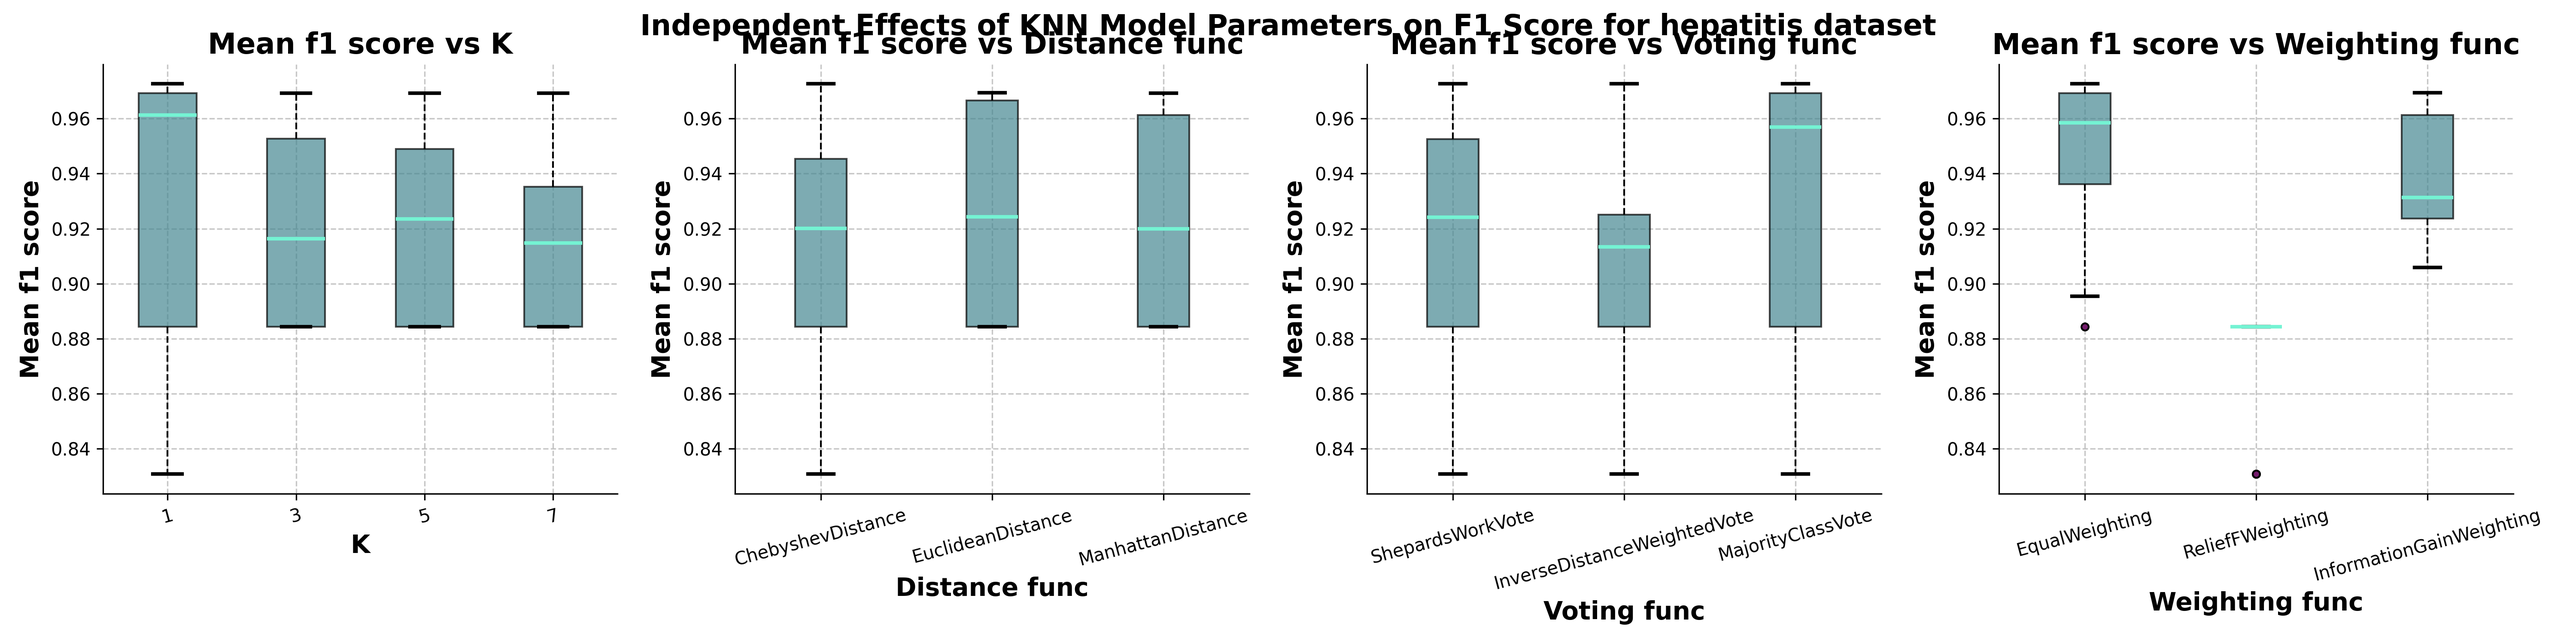
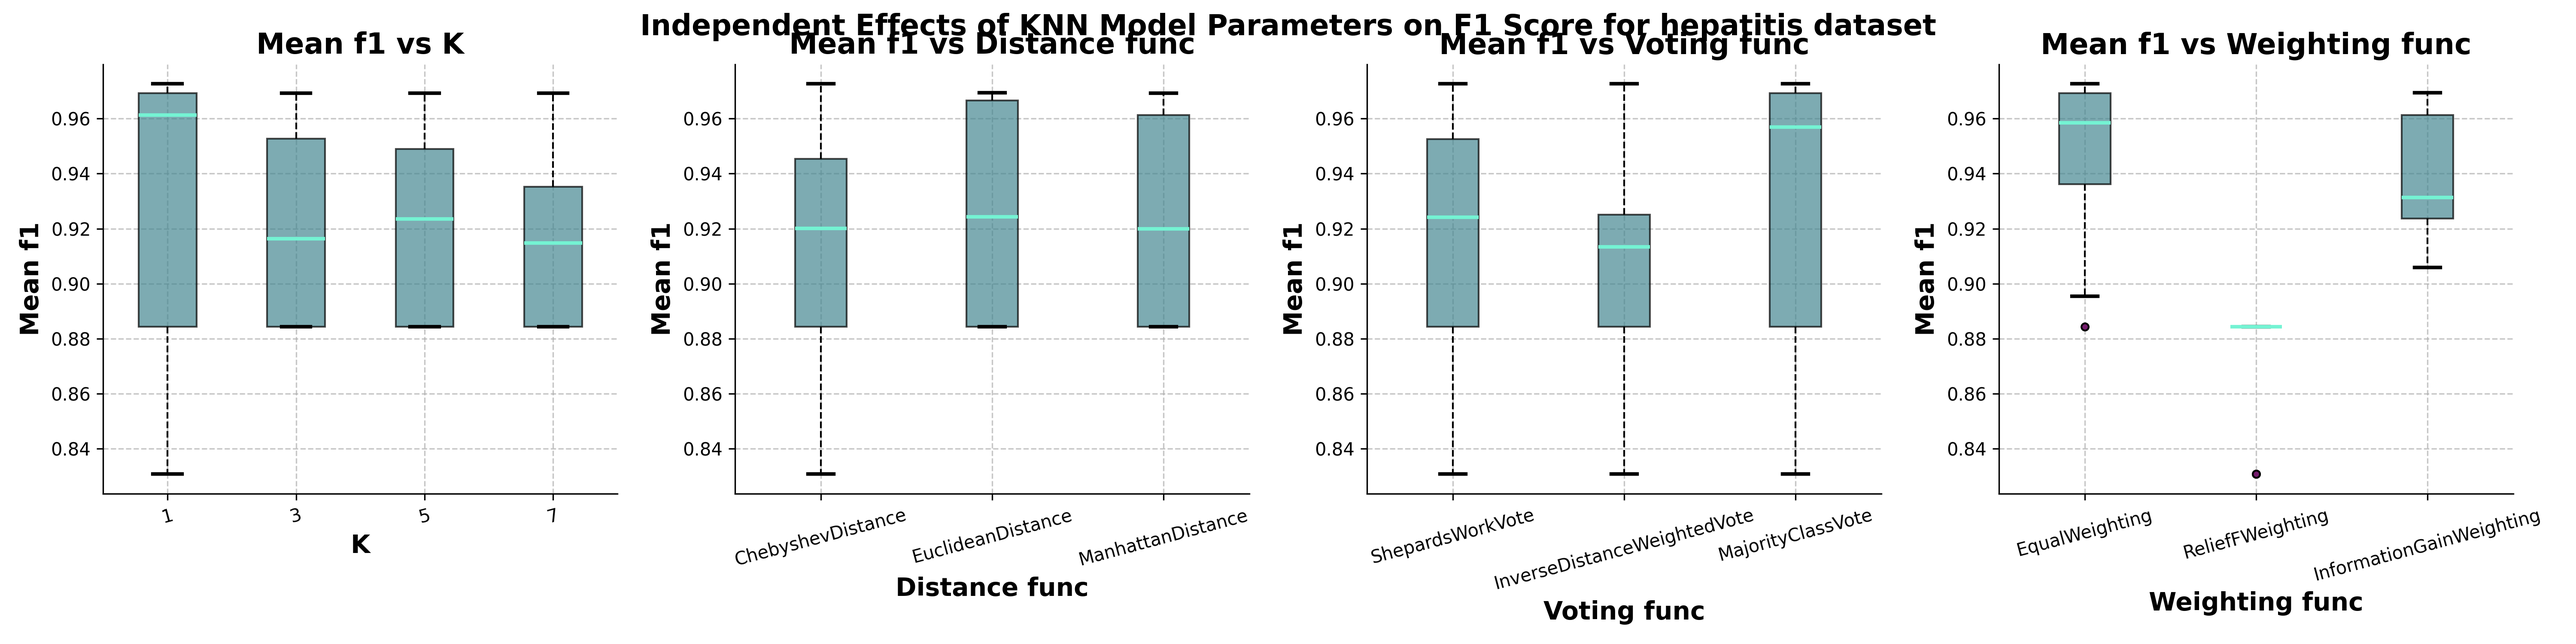
add cross-model comparison

diff --git a/work2/tools/analysis/statistical_analysis_tools.py b/work2/tools/analysis/statistical_analysis_tools.py
@@ -83,9 +83,9 @@ def linear_sample(df_with_folds, num_samples=8):
     return df_with_folds.loc[samples_indices, :]
 
 
-def top_samples(df_with_folds, num_samples=8):
+def top_samples(df_with_folds, num_samples=8, by='mean_f1'):
     num_samples = min(num_samples, len(df_with_folds))
-    return df_with_folds.sort_values(by="mean_f1_score", ascending=False).head(num_samples)
+    return df_with_folds.sort_values(by=by, ascending=False).head(num_samples)
 
 
 def get_p_values_df(
@@ -171,7 +171,7 @@ def plot_p_values_vs_num_samples(
     axes[len(axes) // 2].set_xlabel("Number of Samples")
 
 
-def plot_independent_effects(df, x_cols, y_cols=["mean_f1_score"]):
+def plot_independent_effects(df, x_cols, y_cols=["mean_f1"]):
     cols = len(x_cols) * len(y_cols)
     fig, axes = plt.subplots(1, cols, figsize=(5*cols, 5))
 
@@ -222,11 +222,11 @@ def plot_interactions(df, col_names):
 
         if col_name1 == col_name2:
             # Diagonal plots: show distribution for single variable
-            custom_boxplot(ax, df.groupby(col_name1)["mean_f1_score"].apply(list))
+            custom_boxplot(ax, df.groupby(col_name1)["mean_f1"].apply(list))
         else:
             # Off-diagonal plots: show interaction between variables
             pivot_table = df.pivot_table(
-                values="mean_f1_score", index=col_name1, columns=col_name2, aggfunc="mean"
+                values="mean_f1", index=col_name1, columns=col_name2, aggfunc="mean"
             )
             sns.heatmap(
                 pivot_table,
@@ -308,7 +308,7 @@ def get_top_values(df, col_names, num_to_select=2, models_to_consider=10):
     top_values = {}
 
     for col_name in col_names:
-        best_scoring_models = df.sort_values(by="mean_f1_score", ascending=False).head(
+        best_scoring_models = df.sort_values(by="mean_f1", ascending=False).head(
             models_to_consider
         )
         top_values[col_name] = (
@@ -324,30 +324,60 @@ def get_models_with_top_values(df, top_values):
         & df["distance_func"].isin(top_values["distance_func"])
         & df["voting_func"].isin(top_values["voting_func"])
         & df["weighting_func"].isin(top_values["weighting_func"])
-    ].sort_values(by="mean_f1_score", ascending=False)
+    ].sort_values(by="mean_f1", ascending=False)
     result.reset_index(drop=True, inplace=True)
     return result
 
+def expand_data_per_fold(df, x_col='model', metrics=['f1', 'train_time', 'test_time']):
+    """Reshape data to have one row per fold"""
+    expanded_data = []
+    
+    for _, row in df.iterrows():
+        model = row[x_col]
+        for i in range(10):
+            fold_data = {x_col: model, 'fold': i}
+            for metric in metrics:
+                fold_data[metric] = row[f'{metric}_{i}']
+            expanded_data.append(fold_data)
+            
+    return pd.DataFrame(expanded_data)
+
+def plot_metrics_comparison(axs, df_by_fold, x_col='model'):
+    """Create comparison plots for each metric"""
+    titles = ['F1 Score', 'Train Time', 'Test Time']
+    metrics = ['f1', 'train_time', 'test_time']
+
+    for i, (title, metric) in enumerate(zip(titles, metrics)):
+        data = [df_by_fold[df_by_fold[x_col] == x_col_op][metric].values 
+                for x_col_op in df_by_fold[x_col].unique()]
+        custom_boxplot(axs[i], data)
+        axs[i].set_xticklabels(df_by_fold[x_col].unique())
+        axs[i].set_title(title)
+        axs[i].set_xlabel('Model', fontsize=12, fontweight='bold')
+        if i == 0:
+            axs[i].set_ylabel('F1 Score', fontsize=12, fontweight='bold')
+        else:
+            axs[i].set_ylabel('Time (seconds)', fontsize=12, fontweight='bold')
 
 def analyze_parameters(df, nemenyi_results, x_cols, alpha=0.05):
     # 1. Main Effects Analysis
     print("=== Main Effects ===")
     for param in x_cols:
-        means = df.groupby(param)["mean_f1_score"].mean()
+        means = df.groupby(param)["mean_f1"].mean()
         print(f"\n{param} effects:")
         print(means)
 
     # 2. Interaction Analysis
     print("\n=== Parameter Interactions ===")
     interactions = (
-        df.groupby(x_cols)["mean_f1_score"].mean().unstack()
+        df.groupby(x_cols)["mean_f1"].mean().unstack()
     )
     print(interactions)
 
     # 3. Find Best Combinations
-    best_combos = df.nlargest(3, "mean_f1_score")
+    best_combos = df.nlargest(3, "mean_f1")
     print("\n=== Top 3 Parameter Combinations ===")
-    print(best_combos[x_cols + ["mean_f1_score"]])
+    print(best_combos[x_cols + ["mean_f1"]])
 
     # 4. Statistical Significance Summary
     print("\n=== Significant Differences ===")

diff --git a/work2/tools/analysis/run_statistical_analysis.py b/work2/tools/analysis/run_statistical_analysis.py
@@ -52,9 +52,9 @@ knn_col_names = ["k", "distance_func", "voting_func", "weighting_func"]
 svm_col_names = ["C", "kernel_type"]
 
 for df in [knn_results, knn_reduction_results, svm_results]:
-    df["mean_f1_score"] = df.loc[:, f1_cols].mean(axis=1)
-    df["std_f1_score"] = df.loc[:, f1_cols].std(axis=1)
-    df.sort_values(by="mean_f1_score", ascending=False, inplace=True)
+    for metric_col in ['f1', 'train_time', 'test_time']:
+        df[f"mean_{metric_col}"] = df.loc[:, [f"{metric_col}_{i}" for i in range(10)]].mean(axis=1)
+    df.sort_values(by=f"mean_f1", ascending=False, inplace=True)
 
 knn_results["model_label"] = knn_results.apply(get_knn_model_label, axis=1)
 knn_reduction_results["model_label"] = knn_reduction_results.apply(
@@ -215,7 +215,7 @@ plt.show()
 logging.info("Analyzing Nemenyi test results for KNN models")
 analyze_parameters(knn_results_for_nemenyi, knn_nemenyi_results, knn_col_names)
 significant_pairs = get_significant_pairs(knn_nemenyi_results)
-significant_pairs_df = get_df_pairs(knn_results_for_nemenyi, significant_pairs).loc[:, knn_col_names + ["mean_f1_score"]]
+significant_pairs_df = get_df_pairs(knn_results_for_nemenyi, significant_pairs).loc[:, knn_col_names + ["mean_f1"]]
 significant_pairs_df = format_column_names(significant_pairs_df)
 write_latex_table(significant_pairs_df, f"{TABLES_DIR}/knn_significant_pairs_{dataset_name}.tex", "Significant Differences in KNN Models")
 
@@ -263,7 +263,6 @@ write_latex_table(significant_pairs_df, f"{TABLES_DIR}/svm_significant_pairs_{da
 
 best_svm_model = svm_results.iloc[0, :]
 best_knn_model = knn_results.iloc[0, :]
-# best_svm_model_f1_scores = best_svm_model[f1_cols]
 knn_svm_f1_p_value = stats.wilcoxon(best_svm_model[f1_cols].to_list(), best_knn_model[f1_cols].to_list()).pvalue
 knn_svm_train_time_p_value = stats.wilcoxon(best_svm_model[train_time_cols].to_list(), best_knn_model[train_time_cols].to_list()).pvalue
 knn_svm_test_time_p_value = stats.wilcoxon(best_svm_model[test_time_cols].to_list(), best_knn_model[test_time_cols].to_list()).pvalue
@@ -282,41 +281,24 @@ best_knn_and_svm = pd.DataFrame(
 )
 best_knn_and_svm
 # %%
-# Reshape data for plotting
-expanded_data = []
-for _, row in best_knn_and_svm.iterrows():
-    model = row['model']
-    for i in range(10):
-        expanded_data.append({
-            'model': model,
-            'fold': i,
-            'f1': row[f'f1_{i}'],
-            'train_time': row[f'train_time_{i}'],
-            'test_time': row[f'test_time_{i}']
-        })
-        
-best_knn_and_svm_by_fold = pd.DataFrame(expanded_data)
+# Expand and plot the data
+best_knn_and_svm_by_fold = expand_data_per_fold(best_knn_and_svm)
 
-# Create subplots
-fig, axs = plt.subplots(1, 3, figsize=(15, 5))
-titles = ['F1 Score', 'Train Time', 'Test Time']
-metrics = ['f1', 'train_time', 'test_time']
-
-# Plot each metric
-for i, (title, metric) in enumerate(zip(titles, metrics)):
-    data = [best_knn_and_svm_by_fold[best_knn_and_svm_by_fold['model'] == model][metric].values 
-            for model in ['KNN', 'SVM']]
-    custom_boxplot(axs[i], data)
-    axs[i].set_xticklabels(['KNN', 'SVM'])
-    axs[i].set_title(title)
-    axs[i].set_xlabel('Model')
-    if i == 0:
-        axs[i].set_ylabel('F1 Score')
-    else:
-        axs[i].set_ylabel('Time (seconds)')
-
-plt.suptitle(f'Model Comparison for {dataset_name} dataset', y=1.05)
+fig, axs = plt.subplots(1, 3, figsize=(15, 5))  
+plot_metrics_comparison(axs, best_knn_and_svm_by_fold)
+plt.suptitle(f'Model Comparison for {dataset_name} dataset', fontsize=20, fontweight='bold')
 plt.tight_layout()
 fig.savefig(f"{FIGURES_DIR}/model_comparison_{dataset_name}.png", dpi=300)
 plt.show()
+# %%
+# Calculate means for each metric across folds
+best_knn_and_svm['mean_f1'] = best_knn_and_svm[f1_cols].mean(axis=1)
+best_knn_and_svm['mean_train_time'] = best_knn_and_svm[train_time_cols].mean(axis=1)
+best_knn_and_svm['mean_test_time'] = best_knn_and_svm[test_time_cols].mean(axis=1)
+
+# Now group by model and get means
+best_knn_and_svm_summary = best_knn_and_svm.loc[:, ['model', 'mean_f1', 'mean_train_time', 'mean_test_time']]
+best_knn_and_svm_summary.rename(columns=lambda x: x.replace("_", " ").title() + (" (s)" if "time" in x else ""), inplace=True)
+best_knn_and_svm_summary
+write_latex_table(best_knn_and_svm_summary, f"{TABLES_DIR}/best_knn_and_svm_summary_{dataset_name}.tex", "Best KNN and SVM Models", precision=6)
 # %%

diff --git a/work2/reports/tables/svm_significant_pairs_hepatitis.tex b/work2/reports/tables/svm_significant_pairs_hepatitis.tex
@@ -2,13 +2,13 @@
 \centering
 \caption{Significant Differences in SVM Models}
 \label{tab:svm_significant_pairs_hepatitis}
-\begin{tabular}{rlrrrrrrrrrrrrrrrrrrrrrrrrrrrrrrrrl}
+\begin{tabular}{rlrrrrrrrrrrrrrrrrrrrrrrrrrrrrrrrrrl}
 \toprule
-C & Kernel Type & F1 0 & F1 1 & F1 2 & F1 3 & F1 4 & F1 5 & F1 6 & F1 7 & F1 8 & F1 9 & Train Time 0 & Train Time 1 & Train Time 2 & Train Time 3 & Train Time 4 & Train Time 5 & Train Time 6 & Train Time 7 & Train Time 8 & Train Time 9 & Test Time 0 & Test Time 1 & Test Time 2 & Test Time 3 & Test Time 4 & Test Time 5 & Test Time 6 & Test Time 7 & Test Time 8 & Test Time 9 & Mean F1 Score & Std F1 Score & Model Label \\
+C & Kernel Type & F1 0 & F1 1 & F1 2 & F1 3 & F1 4 & F1 5 & F1 6 & F1 7 & F1 8 & F1 9 & Train Time 0 & Train Time 1 & Train Time 2 & Train Time 3 & Train Time 4 & Train Time 5 & Train Time 6 & Train Time 7 & Train Time 8 & Train Time 9 & Test Time 0 & Test Time 1 & Test Time 2 & Test Time 3 & Test Time 4 & Test Time 5 & Test Time 6 & Test Time 7 & Test Time 8 & Test Time 9 & Mean F1 & Mean Train Time & Mean Test Time & Model Label \\
 \midrule
-3 & rbf & 0.857 & 0.966 & 1.000 & 1.000 & 1.000 & 1.000 & 0.909 & 1.000 & 0.957 & 1.000 & 0.001 & 0.001 & 0.001 & 0.001 & 0.001 & 0.001 & 0.001 & 0.001 & 0.001 & 0.001 & 0.000 & 0.000 & 0.000 & 0.000 & 0.000 & 0.000 & 0.000 & 0.000 & 0.000 & 0.000 & 0.969 & 0.049 & C3Rbf \\
-5 & rbf & 0.828 & 0.966 & 1.000 & 1.000 & 0.960 & 1.000 & 0.957 & 1.000 & 1.000 & 1.000 & 0.001 & 0.001 & 0.001 & 0.001 & 0.001 & 0.001 & 0.001 & 0.001 & 0.001 & 0.001 & 0.000 & 0.000 & 0.000 & 0.000 & 0.000 & 0.000 & 0.000 & 0.000 & 0.000 & 0.000 & 0.971 & 0.054 & C5Rbf \\
-7 & sigmoid & 0.857 & 0.667 & 0.815 & 0.909 & 0.846 & 0.846 & 0.846 & 0.750 & 0.909 & 0.846 & 0.001 & 0.001 & 0.001 & 0.001 & 0.001 & 0.001 & 0.001 & 0.001 & 0.001 & 0.001 & 0.000 & 0.000 & 0.000 & 0.001 & 0.000 & 0.000 & 0.000 & 0.000 & 0.000 & 0.000 & 0.829 & 0.073 & C7Sig \\
+3 & rbf & 0.857 & 0.966 & 1.000 & 1.000 & 1.000 & 1.000 & 0.909 & 1.000 & 0.957 & 1.000 & 0.001 & 0.001 & 0.001 & 0.001 & 0.001 & 0.001 & 0.001 & 0.001 & 0.001 & 0.001 & 0.000 & 0.000 & 0.000 & 0.000 & 0.000 & 0.000 & 0.000 & 0.000 & 0.000 & 0.000 & 0.969 & 0.001 & 0.000 & C3Rbf \\
+5 & rbf & 0.828 & 0.966 & 1.000 & 1.000 & 0.960 & 1.000 & 0.957 & 1.000 & 1.000 & 1.000 & 0.001 & 0.001 & 0.001 & 0.001 & 0.001 & 0.001 & 0.001 & 0.001 & 0.001 & 0.001 & 0.000 & 0.000 & 0.000 & 0.000 & 0.000 & 0.000 & 0.000 & 0.000 & 0.000 & 0.000 & 0.971 & 0.001 & 0.000 & C5Rbf \\
+7 & sigmoid & 0.857 & 0.667 & 0.815 & 0.909 & 0.846 & 0.846 & 0.846 & 0.750 & 0.909 & 0.846 & 0.001 & 0.001 & 0.001 & 0.001 & 0.001 & 0.001 & 0.001 & 0.001 & 0.001 & 0.001 & 0.000 & 0.000 & 0.000 & 0.001 & 0.000 & 0.000 & 0.000 & 0.000 & 0.000 & 0.000 & 0.829 & 0.001 & 0.000 & C7Sig \\
 \bottomrule
 \end{tabular}
 \end{table}

diff --git a/work2/tools/analysis/table_tool.py b/work2/tools/analysis/table_tool.py
@@ -4,13 +4,13 @@ def format_column_names(df):
     df.rename(columns=lambda x: x.replace('_', ' ').title(), inplace=True)
     return df
 
-def write_latex_table(df, filename, caption):
+def write_latex_table(df, filename, caption, precision=3):
     label = os.path.splitext(os.path.basename(filename))[0]
     s = df.style
     s.table_styles = []
     s.caption = caption
     s.format(
-        precision=3,
+        precision=precision,
     )
     s.hide(level=0, axis=0)
     latex_table = s.to_latex(position_float="centering",

diff --git a/work2/reports/tables/knn_significant_pairs_hepatitis.tex b/work2/reports/tables/knn_significant_pairs_hepatitis.tex
@@ -4,7 +4,7 @@
 \label{tab:knn_significant_pairs_hepatitis}
 \begin{tabular}{rlllr}
 \toprule
-K & Distance Func & Voting Func & Weighting Func & Mean F1 Score \\
+K & Distance Func & Voting Func & Weighting Func & Mean F1 \\
 \midrule
 1 & ManhattanDistance & MajorityClassVote & EqualWeighting & 0.969 \\
 1 & EuclideanDistance & ShepardsWorkVote & EqualWeighting & 0.969 \\

diff --git a/work2/reports/tables/best_knn_and_svm_summary_hepatitis.tex b/work2/reports/tables/best_knn_and_svm_summary_hepatitis.tex
@@ -1,0 +1,13 @@
+\begin{table}
+\centering
+\caption{Best KNN and SVM Models}
+\label{tab:best_knn_and_svm_summary_hepatitis}
+\begin{tabular}{lrrr}
+\toprule
+Model & Mean F1 & Mean Train Time (s) & Mean Test Time (s) \\
+\midrule
+KNN & 0.972618 & 0.000078 & 0.006737 \\
+SVM & 0.975310 & 0.000900 & 0.000374 \\
+\bottomrule
+\end{tabular}
+\end{table}
